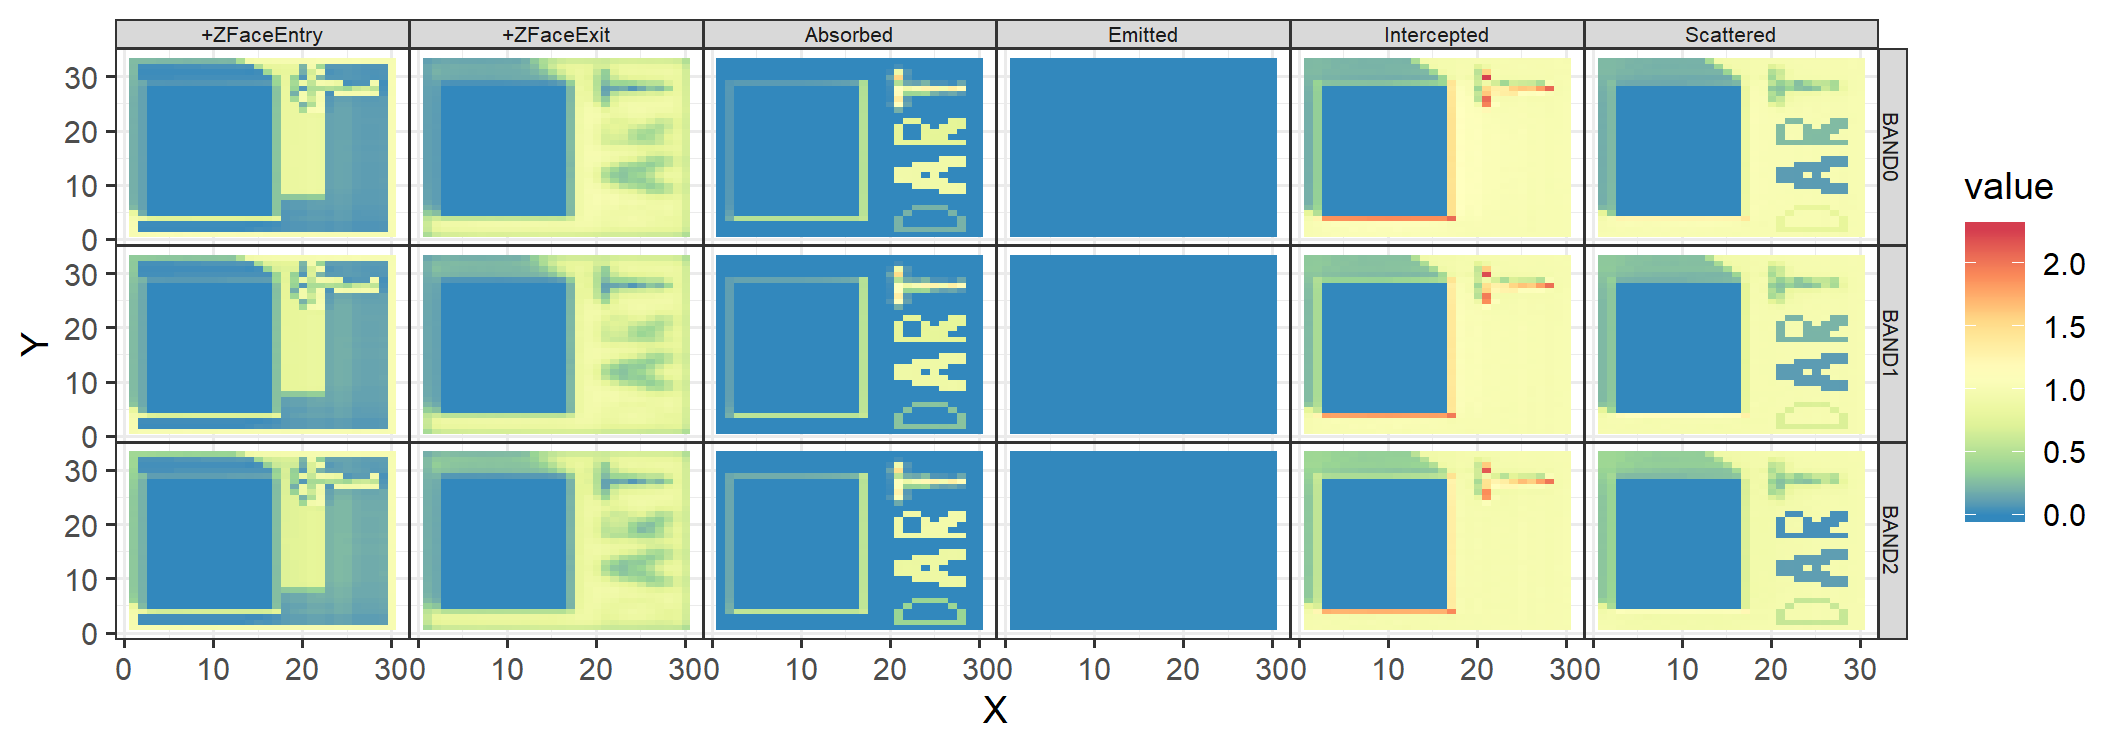
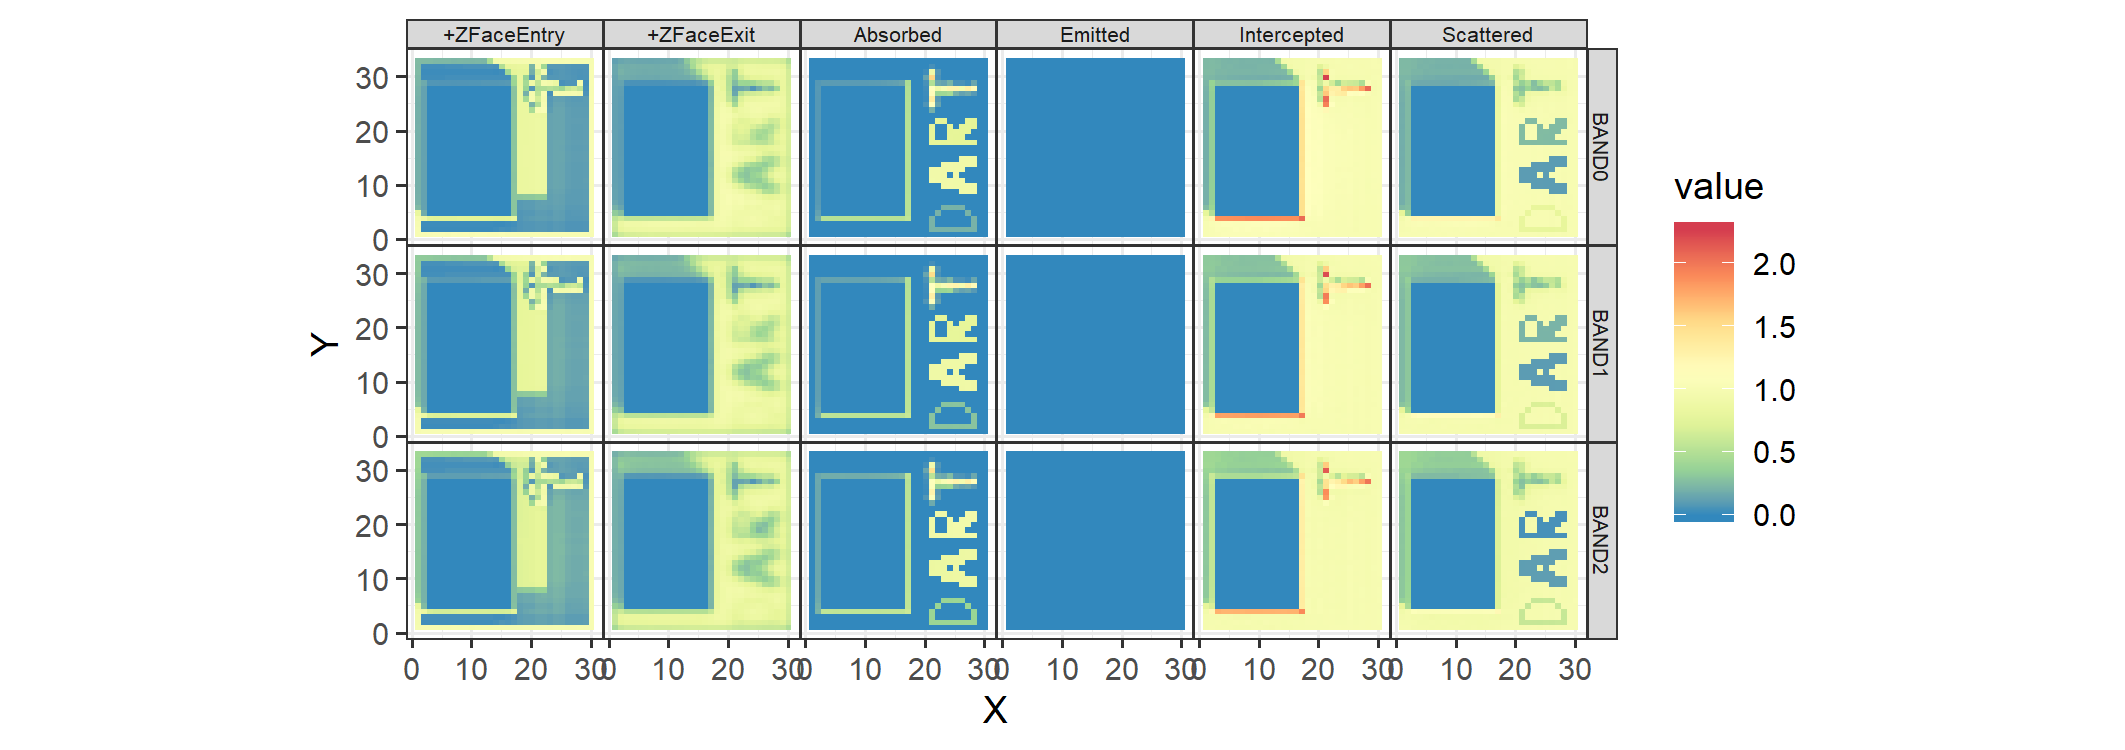
aspect ratio man

diff --git a/README.md b/README.md
@@ -221,12 +221,12 @@ simData_filtered <- simData@data %>%
 ggplot(simData_filtered) + 
     geom_raster(aes(x = X, y = Y, fill = value)) +
     facet_grid(band ~ variablesRB3D) +
-    theme(aspect.ratio = 1) +
     theme_bw() +
     theme(panel.spacing = unit(0, "cm"), 
           strip.text = element_text(size = 6, 
                                     margin = margin(0.05, 0.05, 0.05, 0.05, unit = "cm"))) +
-    scale_fill_distiller(palette = "Spectral")
+    scale_fill_distiller(palette = "Spectral") +
+       theme(aspect.ratio = 1)
 ```
 
 <img src="man/figures/README-unnamed-chunk-15-1.png" width="100%" />
